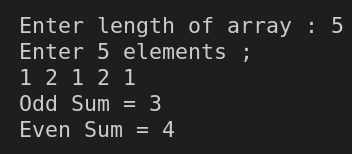
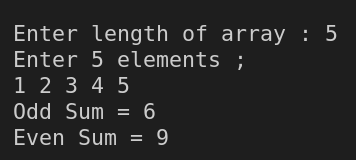
corrected p1 and p4

diff --git a/Lab0 - C Programs/P4/p4.c b/Lab0 - C Programs/P4/p4.c
@@ -14,7 +14,7 @@ void arraySplit(int* a, node* result[],int* resultN, int n) {
     int b = 0;
     int c = 0;
     for(int i = 0; i<n; i++) {
-        if(a[i]%2==0) {
+        if(a[i]%2!=0) {
             node* curr = (node*) malloc(sizeof(node));
             curr->data = a[i];
             if(headB==NULL){

diff --git a/Lab0 - C Programs/P1/p1.c b/Lab0 - C Programs/P1/p1.c
@@ -22,6 +22,6 @@ void main() {
     }
     int result[] = {0, 0};
     sum(arr, n, result);
-    printf("Odd Sum = %d\n", *result);
-    printf("Even Sum = %d\n\n", *(result+1));
+    printf("Odd Sum = %d\n", *(result+1));
+    printf("Even Sum = %d\n\n", *result);
 }
